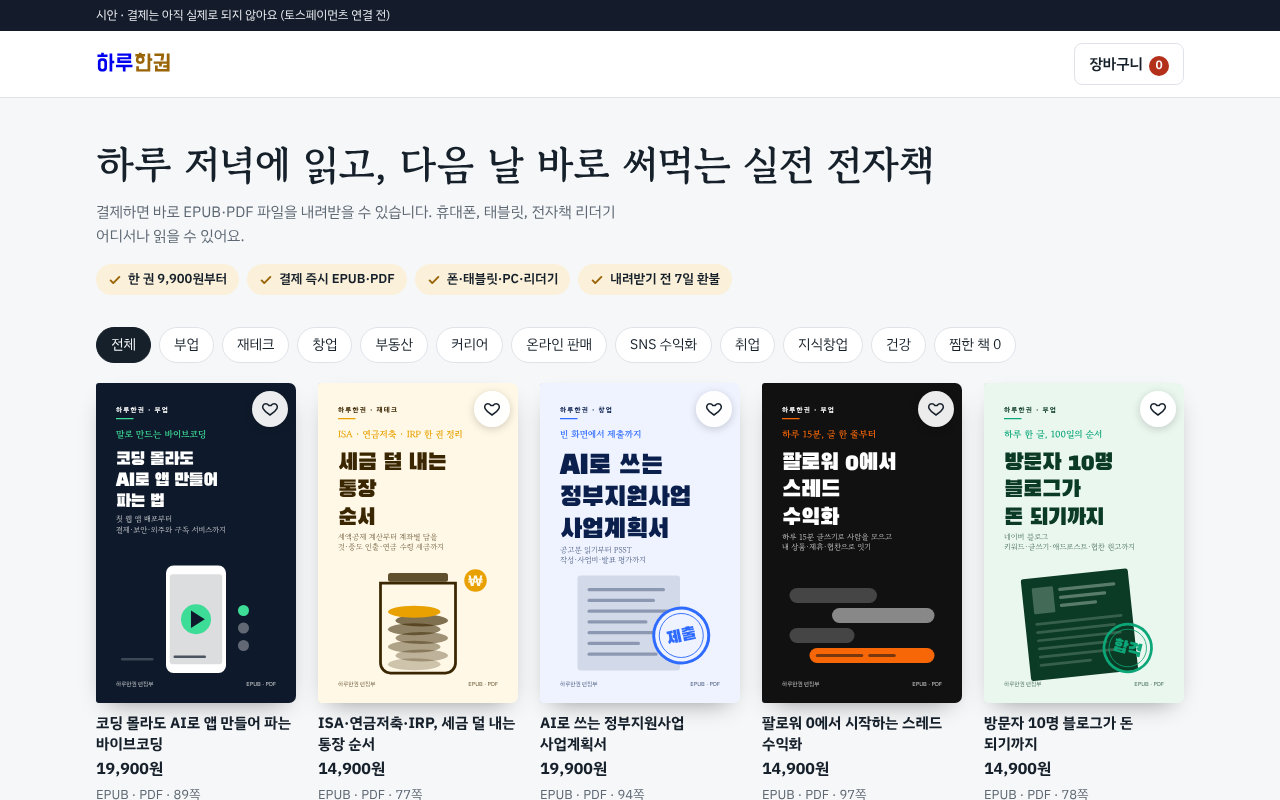
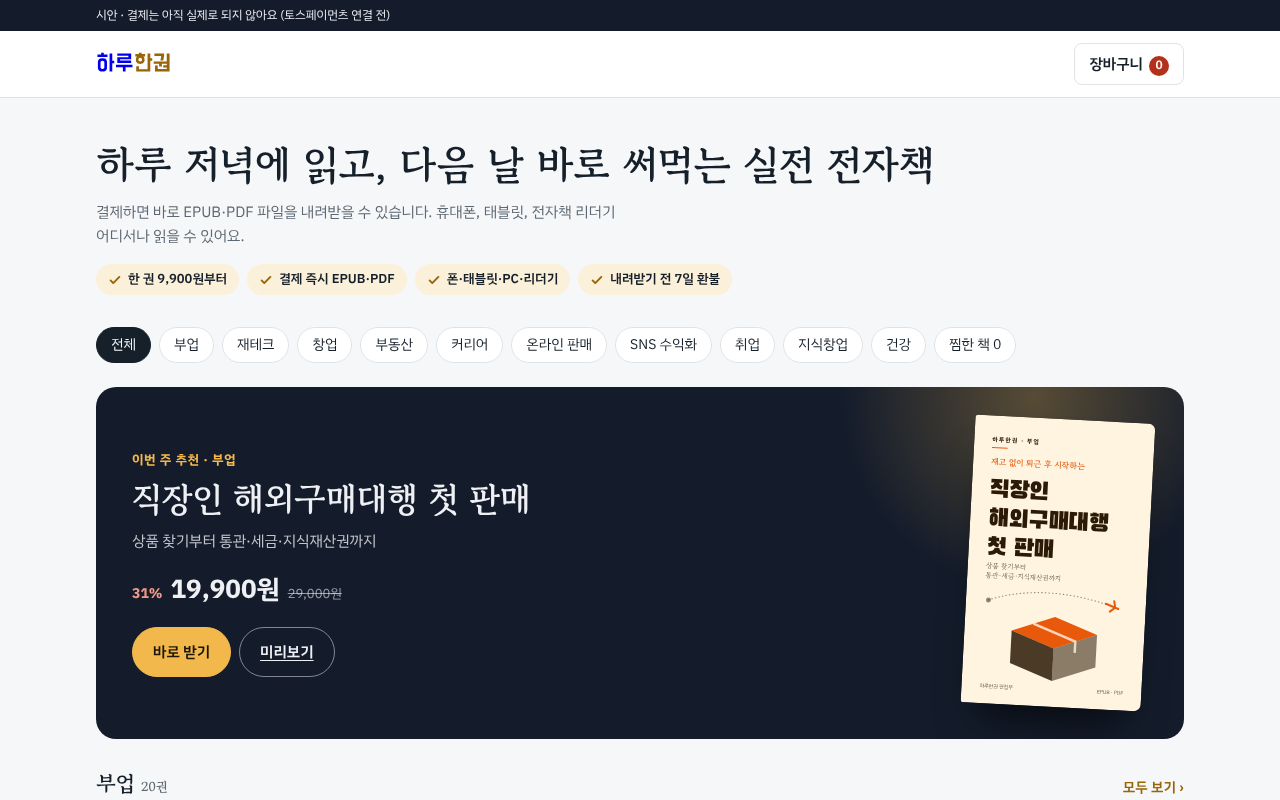
Go with the bold redesign (B): pinned buy card, store shelves, selling hero
- book: header row (cover, title, meta line) with a buy card pinned on the right for
  the whole scroll; mobile follows cover > title > price card and the floating buy bar
  only appears once the in-page buy button leaves the screen
- store: 'this week' lamp-lit banner with buy/preview, category shelves that scroll
  sideways with 'see all', shared card renderer
- index: hero spines replaced by a real 'book of the week' card with price and CTA
- docs: applied-changes table, refreshed after/compare screenshots

Claude-Session: https://claude.ai/code/session_011kcuDrK1WsDtLPuDPELAuk

diff --git a/store.html b/store.html
@@ -64,6 +64,24 @@ button{font:inherit;cursor:pointer}
 .add:hover{border-color:var(--ink)}
 .add:focus-visible{outline:3px solid var(--accent);outline-offset:2px}
 .add[aria-pressed="true"]{background:var(--lamp);border-color:var(--lamp);color:var(--lamp-ink)}
+.feature{display:grid;grid-template-columns:minmax(0,1fr) 180px;gap:32px;align-items:center;background:var(--night);color:var(--night-ink);border-radius:20px;padding:32px 36px;margin:4px 0 28px;position:relative;overflow:hidden}
+.feature::after{content:"";position:absolute;width:420px;height:420px;right:-60px;top:-200px;background:radial-gradient(circle,rgba(242,184,75,.30),transparent 65%);pointer-events:none}
+.feature>*{position:relative;z-index:1}
+.feature .eyebrow{font-size:13px;font-weight:700;color:var(--lamp);letter-spacing:.5px}
+.feature h2{font-family:var(--f-book);font-size:clamp(24px,3.4vw,34px);line-height:1.3;margin:6px 0 8px;text-wrap:balance}
+.feature p{margin:0;opacity:.8;max-width:44ch}
+.feature .price{margin-top:16px;flex-wrap:wrap}.feature .price>*{white-space:nowrap}.feature .price .now{font-size:26px}.feature .price .was{color:rgba(238,240,244,.6)}.feature .price .off{color:#F59A86}
+.feature .acts{display:flex;gap:8px;flex-wrap:wrap;margin-top:16px}
+.feature .acts .btn{border-radius:999px;padding:12px 20px;font-size:15px}
+.feature .acts .btn.ghost{background:transparent;color:var(--night-ink);border-color:rgba(238,240,244,.5)}
+.feature .cover{width:100%;justify-self:end;transform:rotate(3deg);box-shadow:inset 6px 0 0 rgba(0,0,0,.18),0 28px 40px -18px rgba(0,0,0,.7)}
+.shelf{padding-bottom:28px}
+.shelf-h{display:flex;align-items:baseline;justify-content:space-between;gap:12px;margin-bottom:12px}
+.shelf-h h3{font-family:var(--f-book);font-size:21px;margin:0}
+.shelf-h button{all:unset;cursor:pointer;font-size:14px;font-weight:600;color:var(--lamp-text);white-space:nowrap}
+.shelf-h button:focus-visible{outline:3px solid var(--accent);outline-offset:2px}
+.row-scroll{display:grid;grid-auto-flow:column;grid-auto-columns:minmax(160px,190px);gap:18px;overflow-x:auto;padding-bottom:8px;scroll-snap-type:x proximity;scrollbar-width:thin}
+.row-scroll .item{scroll-snap-align:start}
 .paynote{display:flex;flex-wrap:wrap;gap:4px 14px;font-size:12px;color:var(--muted);margin:0;padding:0;list-style:none}
 .paynote li{display:inline-flex;gap:5px;align-items:center}.paynote svg{color:var(--ok)}
 .chip{border:1px solid var(--line);background:var(--card);color:var(--ink);border-radius:999px;padding:6px 14px;font-size:14px}
@@ -124,7 +142,7 @@ footer{border-top:1px solid var(--line);background:var(--card);font-size:12px;co
 footer .wrap{padding-block:24px;display:grid;gap:12px}
 footer .cols{display:grid;grid-template-columns:repeat(auto-fit,minmax(240px,1fr));gap:16px}
 footer b{color:var(--ink)}
-@media (max-width:640px){.chips{flex-wrap:nowrap;overflow-x:auto;margin-inline:-16px;padding-inline:16px;scrollbar-width:none;scroll-snap-type:x proximity}.chips::-webkit-scrollbar{display:none}.chip{flex:none;scroll-snap-align:start}.hero{padding-block:24px 12px}}
+@media (max-width:640px){.feature h2{font-size:22px}.feature .price .now{font-size:21px}.feature{grid-template-columns:minmax(0,1fr) 96px;gap:16px;padding:22px 18px;border-radius:16px}.feature p{display:none}.feature .acts .btn{padding:10px 14px;font-size:14px}.row-scroll{grid-auto-columns:42%;gap:12px;margin-inline:-16px;padding-inline:16px;scroll-padding-inline:16px}.chips{flex-wrap:nowrap;overflow-x:auto;margin-inline:-16px;padding-inline:16px;scrollbar-width:none;scroll-snap-type:x proximity}.chips::-webkit-scrollbar{display:none}.chip{flex:none;scroll-snap-align:start}.hero{padding-block:24px 12px}}
 @media (max-width:480px){.grid{grid-template-columns:repeat(2,minmax(0,1fr));gap:20px 14px}.detail-top{grid-template-columns:100px 1fr}}
 @media (prefers-reduced-motion:reduce){*{transition:none!important}}
 </style>
@@ -143,6 +161,7 @@ footer b{color:var(--ink)}
     <ul class="trust" id="trust"></ul>
   </section>
   <div class="chips" id="chips" role="group" aria-label="분야"></div>
+  <div id="feature"></div>
   <div class="pickbar" id="pickbar" hidden></div>
   <section class="grid" id="grid" aria-label="전자책 목록"></section>
 </main>
@@ -186,16 +205,30 @@ function renderChips(){
     +cats.map(c=>`<button class="chip" type="button" aria-pressed="${c===cat}" data-c="${c}">${c}</button>`).join("")
     +`<button class="chip" type="button" aria-pressed="${cat==="찜한 책"}" data-c="찜한 책">찜한 책 ${w}</button>`;
 }
+const FEATURE=BOOKS.find(b=>b.id==="buy-agent")||BOOKS[0];
+const card=(b,tag="")=>`<div class="item"><button class="book" type="button" data-id="${b.id}">${cover(b)}<div class="meta">${tag}<b>${b.t}</b>${priceHtml(b)}<span class="sub">EPUB · PDF · ${b.pages}쪽</span></div></button><button class="add" type="button" data-add="${b.id}" aria-pressed="${cart.includes(b.id)}">${cart.includes(b.id)?"담았어요 ✓":"장바구니 담기"}</button><button class="wish" type="button" data-w="${b.id}" aria-pressed="${WISH.has(b.id)}" aria-label="${b.t} 찜하기">${HEART}</button></div>`;
+function renderFeature(){
+  const f=FEATURE;feature.hidden=cat!=="전체";
+  feature.innerHTML=`<section class="feature" aria-label="이번 주 추천"><div><div class="eyebrow">이번 주 추천 · ${f.cat}</div><h2>${f.t}</h2><p>${f.sub}</p>${priceHtml(f)}<div class="acts"><button class="btn primary" type="button" data-buy="${f.id}">바로 받기</button>${ON_SITE?`<a class="btn ghost" href="/book#${f.id}">미리보기</a>`:`<button class="btn ghost" type="button" data-open="${f.id}">자세히</button>`}</div></div>${cover(f)}</section>`;
+}
 function renderGrid(){
+  renderFeature();
+  if(cat==="전체"){pickbar.hidden=true;grid.className="";
+    const cats=[...new Set(BOOKS.map(b=>b.cat))];
+    grid.innerHTML=cats.map(c=>{const bs=BOOKS.filter(b=>b.cat===c);return `<section class="shelf"><div class="shelf-h"><h3>${c} <span class="sub">${bs.length}권</span></h3><button type="button" data-cat="${c}">모두 보기 ›</button></div><div class="row-scroll">${bs.map(b=>card(b)).join("")}</div></section>`}).join("");
+    return}
+  grid.className="grid";
   const g=cat.startsWith("goal-")?GOAL_OF(cat.slice(5)):null;
   pickbar.hidden=!g&&cat!=="찜한 책";
   if(g)pickbar.innerHTML=`<b>${g.t}: 앞의 3권부터 순서대로 읽어 보세요</b><a href="/#goal">목표 다시 고르기</a>`;
   else if(cat==="찜한 책")pickbar.innerHTML=`<b>${WISH.all().length?"찜한 책을 한 번에 담아 보세요":"아직 찜한 책이 없어요. 표지의 하트를 눌러 보세요"}</b>${WISH.all().length?'<button class="btn primary" type="button" id="wishAll">모두 장바구니에 담기</button>':""}`;
-  grid.innerHTML=list().map((b,i)=>`<div class="item"><button class="book" type="button" data-id="${b.id}">${cover(b)}<div class="meta">${g&&i<3?`<span class="tag">${i+1}번째로 읽기</span>`:""}<b>${b.t}</b>${priceHtml(b)}<span class="sub">EPUB · PDF · ${b.pages}쪽</span></div></button><button class="add" type="button" data-add="${b.id}" aria-pressed="${cart.includes(b.id)}">${cart.includes(b.id)?"담았어요 ✓":"장바구니 담기"}</button><button class="wish" type="button" data-w="${b.id}" aria-pressed="${WISH.has(b.id)}" aria-label="${b.t} 찜하기">${HEART}</button></div>`).join("");
+  grid.innerHTML=list().map((b,i)=>card(b,g&&i<3?`<span class="tag">${i+1}번째로 읽기</span>`:"")).join("");
   const wa=document.getElementById("wishAll");if(wa)wa.onclick=()=>{WISH.all().forEach(id=>{if(!cart.includes(id))cart.push(id)});save();openCart()};
 }
 chips.onclick=e=>{const c=e.target.closest(".chip");if(!c)return;cat=c.dataset.c;renderChips();renderGrid()};
-grid.onclick=e=>{const ad=e.target.closest(".add");if(ad){const id=ad.dataset.add;if(cart.includes(id)){openCart();return}cart.push(id);save();ad.setAttribute("aria-pressed","true");ad.textContent="담았어요 ✓";return}
+feature.onclick=e=>{const by=e.target.closest("[data-buy]");if(by){const id=by.dataset.buy;if(!cart.includes(id)){cart.push(id);save()}openCart();return}const o=e.target.closest("[data-open]");if(o)openDetail(o.dataset.open)};
+grid.onclick=e=>{const sc=e.target.closest("[data-cat]");if(sc){cat=sc.dataset.cat;renderChips();renderGrid();chips.scrollIntoView({block:"start"});return}
+  const ad=e.target.closest(".add");if(ad){const id=ad.dataset.add;if(cart.includes(id)){openCart();return}cart.push(id);save();ad.setAttribute("aria-pressed","true");ad.textContent="담았어요 ✓";return}
   const w=e.target.closest(".wish");if(w){w.setAttribute("aria-pressed",WISH.toggle(w.dataset.w));renderChips();if(cat==="찜한 책")renderGrid();return}
   const b=e.target.closest(".book");if(b)openDetail(b.dataset.id)};
 

diff --git a/book.html b/book.html
@@ -49,9 +49,18 @@ header nav a{text-decoration:none}
 .btn:hover{border-color:var(--ink)}.btn.primary:hover{filter:brightness(1.08)}
 .btn:focus-visible,a:focus-visible,summary:focus-visible{outline:3px solid var(--accent);outline-offset:3px}
 /* layout */
-.layout{display:grid;grid-template-columns:minmax(0,380px) minmax(0,1fr);gap:56px;padding-block:40px 80px;align-items:start}
-.side{position:sticky;top:calc(env(safe-area-inset-top,0px) + 84px);display:grid;gap:18px}
-.side>.cover{width:min(100%,calc(44vh * 5 / 8));justify-self:center}
+/* B: Skillshare-style — book header on the left, buy card pinned on the right for the whole scroll */
+.layout{display:grid;grid-template-columns:minmax(0,1fr) minmax(0,360px);grid-template-rows:auto 1fr;column-gap:56px;row-gap:40px;padding-block:40px 80px;align-items:start}
+.top{grid-column:1;grid-row:1;display:grid;grid-template-columns:200px minmax(0,1fr);gap:32px;align-items:end}
+.top .cover{width:100%}
+.metaline{display:flex;flex-wrap:wrap;gap:6px 14px;margin:4px 0 0;padding:0;list-style:none;font-size:14px;color:var(--muted)}
+.metaline li{display:inline-flex;align-items:center;gap:6px}
+.metaline li+li::before{content:"";width:3px;height:3px;border-radius:50%;background:currentColor;margin-right:8px;opacity:.6}
+.side{grid-column:2;grid-row:1/span 2;position:sticky;top:calc(env(safe-area-inset-top,0px) + 84px);display:grid;gap:18px}
+.main{grid-column:1;grid-row:2}
+.buy .head{display:grid;grid-template-columns:44px minmax(0,1fr);gap:12px;align-items:center;padding-bottom:14px;border-bottom:1px solid var(--line)}
+.buy .head .cover{width:44px;border-radius:2px 4px 4px 2px;box-shadow:inset 3px 0 0 rgba(0,0,0,.2)}
+.buy .head b{font-family:var(--f-book);font-size:16px;line-height:1.4}
 .cover{max-width:100%;border-radius:4px 10px 10px 4px;overflow:hidden;box-shadow:inset 8px 0 0 rgba(0,0,0,.2),0 24px 40px -22px rgba(10,16,30,.55);aspect-ratio:5/8}
 .cover svg{display:block;width:100%;height:100%}
 .buy{display:grid;gap:14px;background:var(--card);border:1px solid var(--line);border-radius:20px;padding:20px;box-shadow:0 18px 40px -28px rgba(10,16,30,.45)}
@@ -70,7 +79,7 @@ header nav a{text-decoration:none}
 .facts dt{float:left;margin-right:6px}.facts dd{margin:0;color:var(--ink);font-weight:600}
 .facts div{display:flex;gap:6px}
 .main{min-width:0;display:grid;gap:64px}
-.intro{display:grid;gap:14px}
+.intro{display:grid;gap:12px}
 .cat{font-size:14px;font-weight:600;color:var(--accent)}
 h1{font-family:var(--f-book);font-size:clamp(28px,4vw,42px);line-height:1.3;margin:0;text-wrap:balance}
 .subtitle{font-size:18px;color:var(--muted);margin:0}
@@ -168,25 +177,30 @@ footer{border-top:1px solid var(--line);background:var(--card);font-size:12px;co
 footer .wrap{padding-block:24px;display:grid;grid-template-columns:repeat(auto-fit,minmax(240px,1fr));gap:16px}
 footer b{color:var(--ink)}
 @media (max-width:860px){
-  .layout{grid-template-columns:minmax(0,1fr);gap:28px;padding-block:24px 120px}
-  .side{position:static;grid-template-columns:minmax(0,150px) minmax(0,1fr);align-items:end}
-  .side>.cover{width:100%}
-  .buy .badges,.buy .refund{display:none}
-  .buy{padding:14px}.buy .btn,.buy .wish,.buy .gethead,.buy .getfiles{display:none}
+  .layout{grid-template-columns:minmax(0,1fr);grid-template-rows:none;row-gap:24px;padding-block:24px 120px}
+  .top,.side,.main{grid-column:1;grid-row:auto}
+  .top{grid-template-columns:minmax(0,1fr);justify-items:center;text-align:center;gap:20px}
+  .top .cover{width:min(40vw,150px)}
+  .buy{padding:16px;gap:12px}
+  .top .intro{justify-items:center}
+  .metaline{justify-content:center}
+  .side{position:static}
+  .buy .head,.buy .gethead,.buy .getfiles,.buy .wish{display:none}
   .who,.files{grid-template-columns:minmax(0,1fr)}
   .more{grid-template-columns:repeat(3,minmax(0,1fr));gap:12px}
   header nav{display:none}
   .tabs{margin-bottom:-24px}
   .main{gap:48px}
-  .bar{display:grid;grid-template-columns:auto minmax(0,1fr) auto auto;gap:10px;align-items:center;position:fixed;left:max(10px,env(safe-area-inset-left,0px));right:max(10px,env(safe-area-inset-right,0px));bottom:calc(10px + env(safe-area-inset-bottom,0px));z-index:8;background:var(--card);border:1px solid var(--line);border-radius:20px;padding:10px;box-shadow:0 16px 36px -14px rgba(10,16,30,.5)}
+  .bar{display:grid;transform:translateY(calc(100% + 24px));transition:transform .35s cubic-bezier(.16,1,.3,1);grid-template-columns:auto minmax(0,1fr) auto auto;gap:10px;align-items:center;position:fixed;left:max(10px,env(safe-area-inset-left,0px));right:max(10px,env(safe-area-inset-right,0px));bottom:calc(10px + env(safe-area-inset-bottom,0px));z-index:8;background:var(--card);border:1px solid var(--line);border-radius:20px;padding:10px;box-shadow:0 16px 36px -14px rgba(10,16,30,.5)}
   .bar .pb{min-width:0;display:grid;line-height:1.25}
   .bar .pb b{font-size:18px;font-variant-numeric:tabular-nums;white-space:nowrap}
   .bar .pb b span{color:var(--sale);font-size:14px;margin-right:4px}
   .bar .pb small{font-size:11.5px;color:var(--muted);white-space:nowrap;overflow:hidden;text-overflow:ellipsis}
   .bar .btn{white-space:nowrap;border-radius:14px;padding:13px 16px}
   .bar .wish{padding:0;width:46px;height:46px;border-radius:14px}
+  .bar.show{transform:none}
 }
-@media (max-width:420px){.bar .thumb{display:none}.side{grid-template-columns:minmax(0,120px) minmax(0,1fr)}.facts{grid-template-columns:minmax(0,1fr)}.ch{grid-template-columns:48px minmax(0,1fr)}}
+@media (max-width:420px){.bar .thumb{display:none}.facts{gap:4px 10px}.ch{grid-template-columns:48px minmax(0,1fr)}}
 @media (prefers-reduced-motion:reduce){*{transition:none!important;scroll-behavior:auto!important}}
 </style>
 </head>
@@ -225,9 +239,18 @@ function render(){
   document.title=b.title+" | 하루한권";
   const buyHref=STORE==="#"?"#"+b.id:"/store#buy-"+b.id;
   app.innerHTML=`
-  <aside class="side">
+  <section class="top">
     <div class="cover">${coverSVG(b)}</div>
-    <div class="buy">
+    <div class="intro">
+      <div class="cat">${b.cat}</div>
+      <h1>${b.title}</h1>
+      <p class="subtitle">${b.sub}</p>
+      <ul class="metaline"><li>${b.chapters}장 · ${b.pages}쪽</li><li>EPUB · PDF</li><li>결제 즉시 받기</li></ul>
+    </div>
+  </section>
+  <aside class="side">
+    <div class="buy" id="buybox">
+      <div class="head"><div class="cover">${coverSVG(b)}</div><b>${b.title}</b></div>
       ${priceHtml(b)}
       <dl class="facts"><div><dt>형식</dt><dd>EPUB · PDF</dd></div><div><dt>분량</dt><dd>${b.pages}쪽</dd></div><div><dt>구성</dt><dd>${b.chapters}장</dd></div><div><dt>받는 시간</dt><dd>결제 즉시</dd></div></dl>
       <a class="btn primary" href="${buyHref}">${won(b.price)} 바로 받기 ${ARROW}</a>
@@ -242,12 +265,7 @@ function render(){
     </div>
   </aside>
   <article class="main">
-    <section class="intro">
-      <div class="cat">${b.cat}</div>
-      <h1>${b.title}</h1>
-      <p class="subtitle">${b.sub}</p>
-      <ul class="summary">${b.summary.map(t=>`<li>${CHECK}<span>${t}</span></li>`).join("")}</ul>
-    </section>
+    <ul class="summary">${b.summary.map(t=>`<li>${CHECK}<span>${t}</span></li>`).join("")}</ul>
     <nav class="tabs" aria-label="상세 목차"><a href="#s-pain">책 소개</a><a href="#s-toc">목차</a><a href="#s-preview">미리보기</a><a href="#s-reviews">후기</a><a href="#faq">자주 묻는 질문</a></nav>
     <section id="s-pain">
       <h2>이런 고민, 해 보셨나요?</h2>
@@ -291,6 +309,7 @@ function render(){
     </section>
   </article>`;
   bar.innerHTML=`<span class="thumb">${coverSVG(b)}</span><span class="pb"><b>${b.was?`<span>${off(b)}%</span>`:""}${won(b.price)}</b><small>EPUB·PDF 즉시 · 7일 환불</small></span><button class="wish" type="button" data-w aria-pressed="${WISH.has(b.id)}" aria-label="찜하기">${HEART}</button><a class="btn primary" href="${buyHref}">바로 받기</a>`;
+  if(window.IntersectionObserver){if(window._io)_io.disconnect();window._io=new IntersectionObserver(([e])=>bar.classList.toggle("show",!e.isIntersecting));_io.observe(document.querySelector("#buybox .btn.primary"))}else bar.classList.add("show");
   document.querySelectorAll("[data-w]").forEach(w=>w.onclick=()=>{const on=WISH.toggle(b.id);document.querySelectorAll("[data-w]").forEach(x=>x.setAttribute("aria-pressed",on))});
 }
 window.addEventListener("hashchange",()=>{const id=location.hash.slice(1);if(BOOKS.some(b=>b.id===id)){render();window.scrollTo(0,0)}});

diff --git a/index.html b/index.html
@@ -62,6 +62,18 @@ section{padding-block:72px}
 .spine{height:46px;border-radius:3px;display:flex;align-items:center;padding:0 16px;font-family:var(--f-book);font-weight:700;font-size:15px;color:#fff;box-shadow:inset 0 -4px 0 rgba(0,0,0,.18);white-space:nowrap;overflow:hidden;text-overflow:ellipsis;max-width:100%;animation:slide .9s cubic-bezier(.16,1,.3,1) both}
 .spine small{margin-left:auto;padding-left:16px;font-family:var(--f-ui);font-weight:500;font-size:11px;color:#fff}
 .desk{height:14px;background:#3A2C1C;border-radius:2px 2px 0 0;width:100%}
+/* B: the hero sells one real book — cover on the lamp-lit desk, price and two actions */
+.hbook{display:grid;grid-template-columns:150px minmax(0,1fr);gap:22px;align-items:end;text-decoration:none;background:rgba(255,255,255,.05);border:1px solid rgba(255,255,255,.12);border-radius:20px;padding:20px;margin-bottom:56px;transition:border-color .25s,transform .3s cubic-bezier(.16,1,.3,1)}
+.hbook:hover{border-color:var(--lamp);transform:translateY(-3px)}
+.hbook:focus-visible{outline:3px solid var(--lamp);outline-offset:3px}
+.hbook .cv{aspect-ratio:5/8;border-radius:3px 7px 7px 3px;overflow:hidden;box-shadow:inset 6px 0 0 rgba(0,0,0,.18),0 26px 36px -16px rgba(0,0,0,.75);transform:rotate(-3deg)}
+.hbook .cv svg{display:block;width:100%;height:100%}
+.hbook .eb{font-size:12px;font-weight:700;color:var(--lamp);letter-spacing:.5px}
+.hbook b{display:block;font-family:var(--f-book);font-size:21px;line-height:1.35;margin:6px 0}
+.hbook .s{font-size:14px;opacity:.75;display:block}
+.hbook .pr{display:flex;gap:8px;align-items:baseline;margin:12px 0;font-variant-numeric:tabular-nums}
+.hbook .pr strong{font-size:24px}.hbook .pr s{opacity:.55;font-size:14px}
+.hbook .go{display:inline-flex;gap:6px;align-items:center;background:var(--lamp);color:var(--lamp-ink);font-weight:700;border-radius:999px;padding:10px 18px;font-size:15px}
 @keyframes slide{from{transform:translateX(24px)}to{transform:none}}
 /* goal picker: one question, five answer cards with fanned covers, then three books */
 .goal{padding-block:64px 56px}
@@ -140,10 +152,10 @@ footer b{color:var(--ink)}
 @media (max-width:820px){
   .hero-grid,.faq,.letter .in{grid-template-columns:1fr}
   .stack{justify-items:stretch}
-  .stack .spine:nth-child(n+4){display:none}
-  .spine{height:40px;font-size:14px}
-  .hero-grid{padding-top:32px;gap:24px}
+  .hero-grid{padding-top:32px;gap:28px}
   .offer{padding-bottom:0}
+  .hbook{grid-template-columns:104px minmax(0,1fr);gap:16px;padding:16px;margin-bottom:40px}
+  .hbook b{font-size:18px}.hbook .s{display:none}.hbook .pr{margin:8px 0}.hbook .pr strong{font-size:20px}
   .picks{grid-template-columns:repeat(2,minmax(0,1fr))}
   .steps{grid-template-columns:1fr}
   .hero nav .links{display:none}
@@ -163,14 +175,7 @@ footer b{color:var(--ink)}
         <div class="cta"><a class="btn lamp" href="#goal">나에게 맞는 책 찾기</a><a class="btn ghost" href="/store">전체 책 보기</a></div>
         <ul class="offer" id="offer"><li>권당 <b>9,900원</b>부터</li><li>EPUB·PDF 즉시 다운로드</li><li>내려받기 전 7일 환불</li></ul>
       </div>
-      <div class="stack" aria-hidden="true">
-        <div class="spine" style="background:#2B1A05;width:92%;animation-delay:0.05s">직장인 해외구매대행 첫 판매<small>75쪽</small></div>
-        <div class="spine" style="background:#0B3B2C;width:100%;animation-delay:0.12s">블로그로 시작하는 쿠팡 파트너스<small>76쪽</small></div>
-        <div class="spine" style="background:#3B0A0A;width:86%;animation-delay:0.19s">유튜브 쇼츠로 부업 시작하기<small>72쪽</small></div>
-        <div class="spine" style="background:#14244F;width:96%;animation-delay:0.26s">신입 합격 자소서·면접 템플릿북<small>91쪽</small></div>
-        <div class="spine" style="background:#212529;width:78%;animation-delay:0.33s">부업 세금 한 권 정리<small>55쪽</small></div>
-        <div class="desk"></div>
-      </div>
+      <a class="hbook" id="hbook" href="/store"></a>
     </div>
   </div>
 </header>
@@ -239,6 +244,7 @@ footer b{color:var(--ink)}
 
 <script src="/books.js"></script>
 <script>
+{const f=BOOKS.find(b=>b.id==="buy-agent")||BOOKS[0],h=document.getElementById("hbook");h.href="/book#"+f.id;h.setAttribute("aria-label",`이번 주의 책: ${f.title}, ${won(f.price)}`);h.innerHTML=`<div class="cv">${coverSVG(f)}</div><div><span class="eb">이번 주의 책 · ${f.pages}쪽</span><b>${f.title}</b><span class="s">${f.sub}</span><div class="pr"><strong>${won(f.price)}</strong>${f.was?`<s>${won(f.was)}</s>`:""}</div><span class="go">미리보고 받기 →</span></div>`}
 {const T='<svg width="14" height="14" viewBox="0 0 16 16" aria-hidden="true" fill="none" stroke="currentColor" stroke-width="2.2" stroke-linecap="round" stroke-linejoin="round"><path d="M3 8.5l3 3 7-7"/></svg>';document.getElementById("offer").innerHTML=[`권당 <b>${won(Math.min(...BOOKS.map(b=>b.price)))}</b>부터`,"EPUB·PDF 즉시 다운로드","내려받기 전 7일 환불"].map(t=>`<li>${T}<span>${t}</span></li>`).join("")}
 const ON_SITE=location.protocol.startsWith("http")&&!location.hostname.endsWith("claude.ai")&&!location.hostname.includes("claudeusercontent");
 document.getElementById("picks-list").innerHTML=["buy-agent","partners","shorts","side-tax"].map(id=>BOOKS.find(b=>b.id===id)).map(b=>`<a class="pick" href="${ON_SITE?"/book#"+b.id:"https://claude.ai/artifact/NNptiX8fNxzsThEBj39ik2"}"${ON_SITE?"":' target="_blank" rel="noopener"'}><div class="cover">${coverSVG(b)}</div><b>${b.title}</b><span><strong>${won(b.price)}</strong> · ${b.pages}쪽</span></a>`).join("");

diff --git a/docs/design-refs.md b/docs/design-refs.md
@@ -79,3 +79,13 @@
 | Smooth Drawer (kokonutd/smooth-drawer) | https://21st.dev/@kokonutd/components/smooth-drawer | 하단 고정 카드의 가격 블록(가격+"평생 소장") + 꽉 찬 CTA → 모바일 하단 구매 바 |
 
 React·Tailwind·motion 의존성은 하나도 들여오지 않았다. 전부 기존 CSS 토큰과 바닐라 JS로 다시 썼다.
+
+## 4단계 적용 (형 선택: B 과감한 개편, A 포함)
+
+| 페이지 | 바뀐 점 | 참고 Mobbin | 21st |
+|---|---|---|---|
+| book | 상단을 표지+제목+"11장·91쪽·EPUB·PDF·결제 즉시" 한 줄로, 오른쪽에 스크롤 내내 고정되는 구매 카드(미니 표지·가격·한 번 결제·버튼·신뢰 배지·잠긴 파일 2개·환불 한 줄). 모바일은 Apple Books 순서(표지→제목→가격 카드), 구매 버튼이 화면 밖으로 나가면 하단 떠 있는 구매 바가 올라옴(깨진 버튼 수리). FAQ 아코디언에 환불·파일 형식·기기, "후기 준비 중" 자리, 목차 5장부터 접기 | Skillshare 구매 흐름, Snowflake 상세, Apple Books 상세, Deepstash 상세, Notion Q&A, New Yorker FAQ, Jasper 목차 | Single Plan Pricing Card, Smooth Drawer, Accordion, Empty Testimonial |
+| store | 램프색 구매 버튼, 신뢰 칩 4개(최저가·즉시 EPUB·PDF·기기·7일 환불), "이번 주 추천" 어두운 램프 배너(바로 받기/미리보기), "전체"는 분야별 가로 선반 + 모두 보기, 카드마다 장바구니 담기, 모바일 칩 한 줄 스크롤, 결제창 버튼 위 안내 3줄 | Apple Books 홈, Speechify 홈, Kindle 추천, Webflow 히어로, Mailchimp·Behance 결제 | Single Plan Pricing Card(배너 가격), Product Card 패턴(찜 배지) |
+| index | 오른쪽 책등 장식 → 실제 "이번 주의 책" 판매 카드(표지·제목·가격·미리보고 받기), CTA 아래 "권당 9,900원부터·EPUB·PDF 즉시·7일 환불" | Webflow 전자책 히어로, Typeform 전자책, Dropbox Shop | Single Plan Pricing Card(신뢰 줄) |
+
+검증: 390/1280 × 라이트/다크 12장 모두 가로 스크롤 0, 콘솔 에러 0. 장바구니 담기·선반 모두 보기·배너 바로 받기·하단 바 표시 동작 확인. 비교 이미지: `docs/before-after/compare-*.png`.
